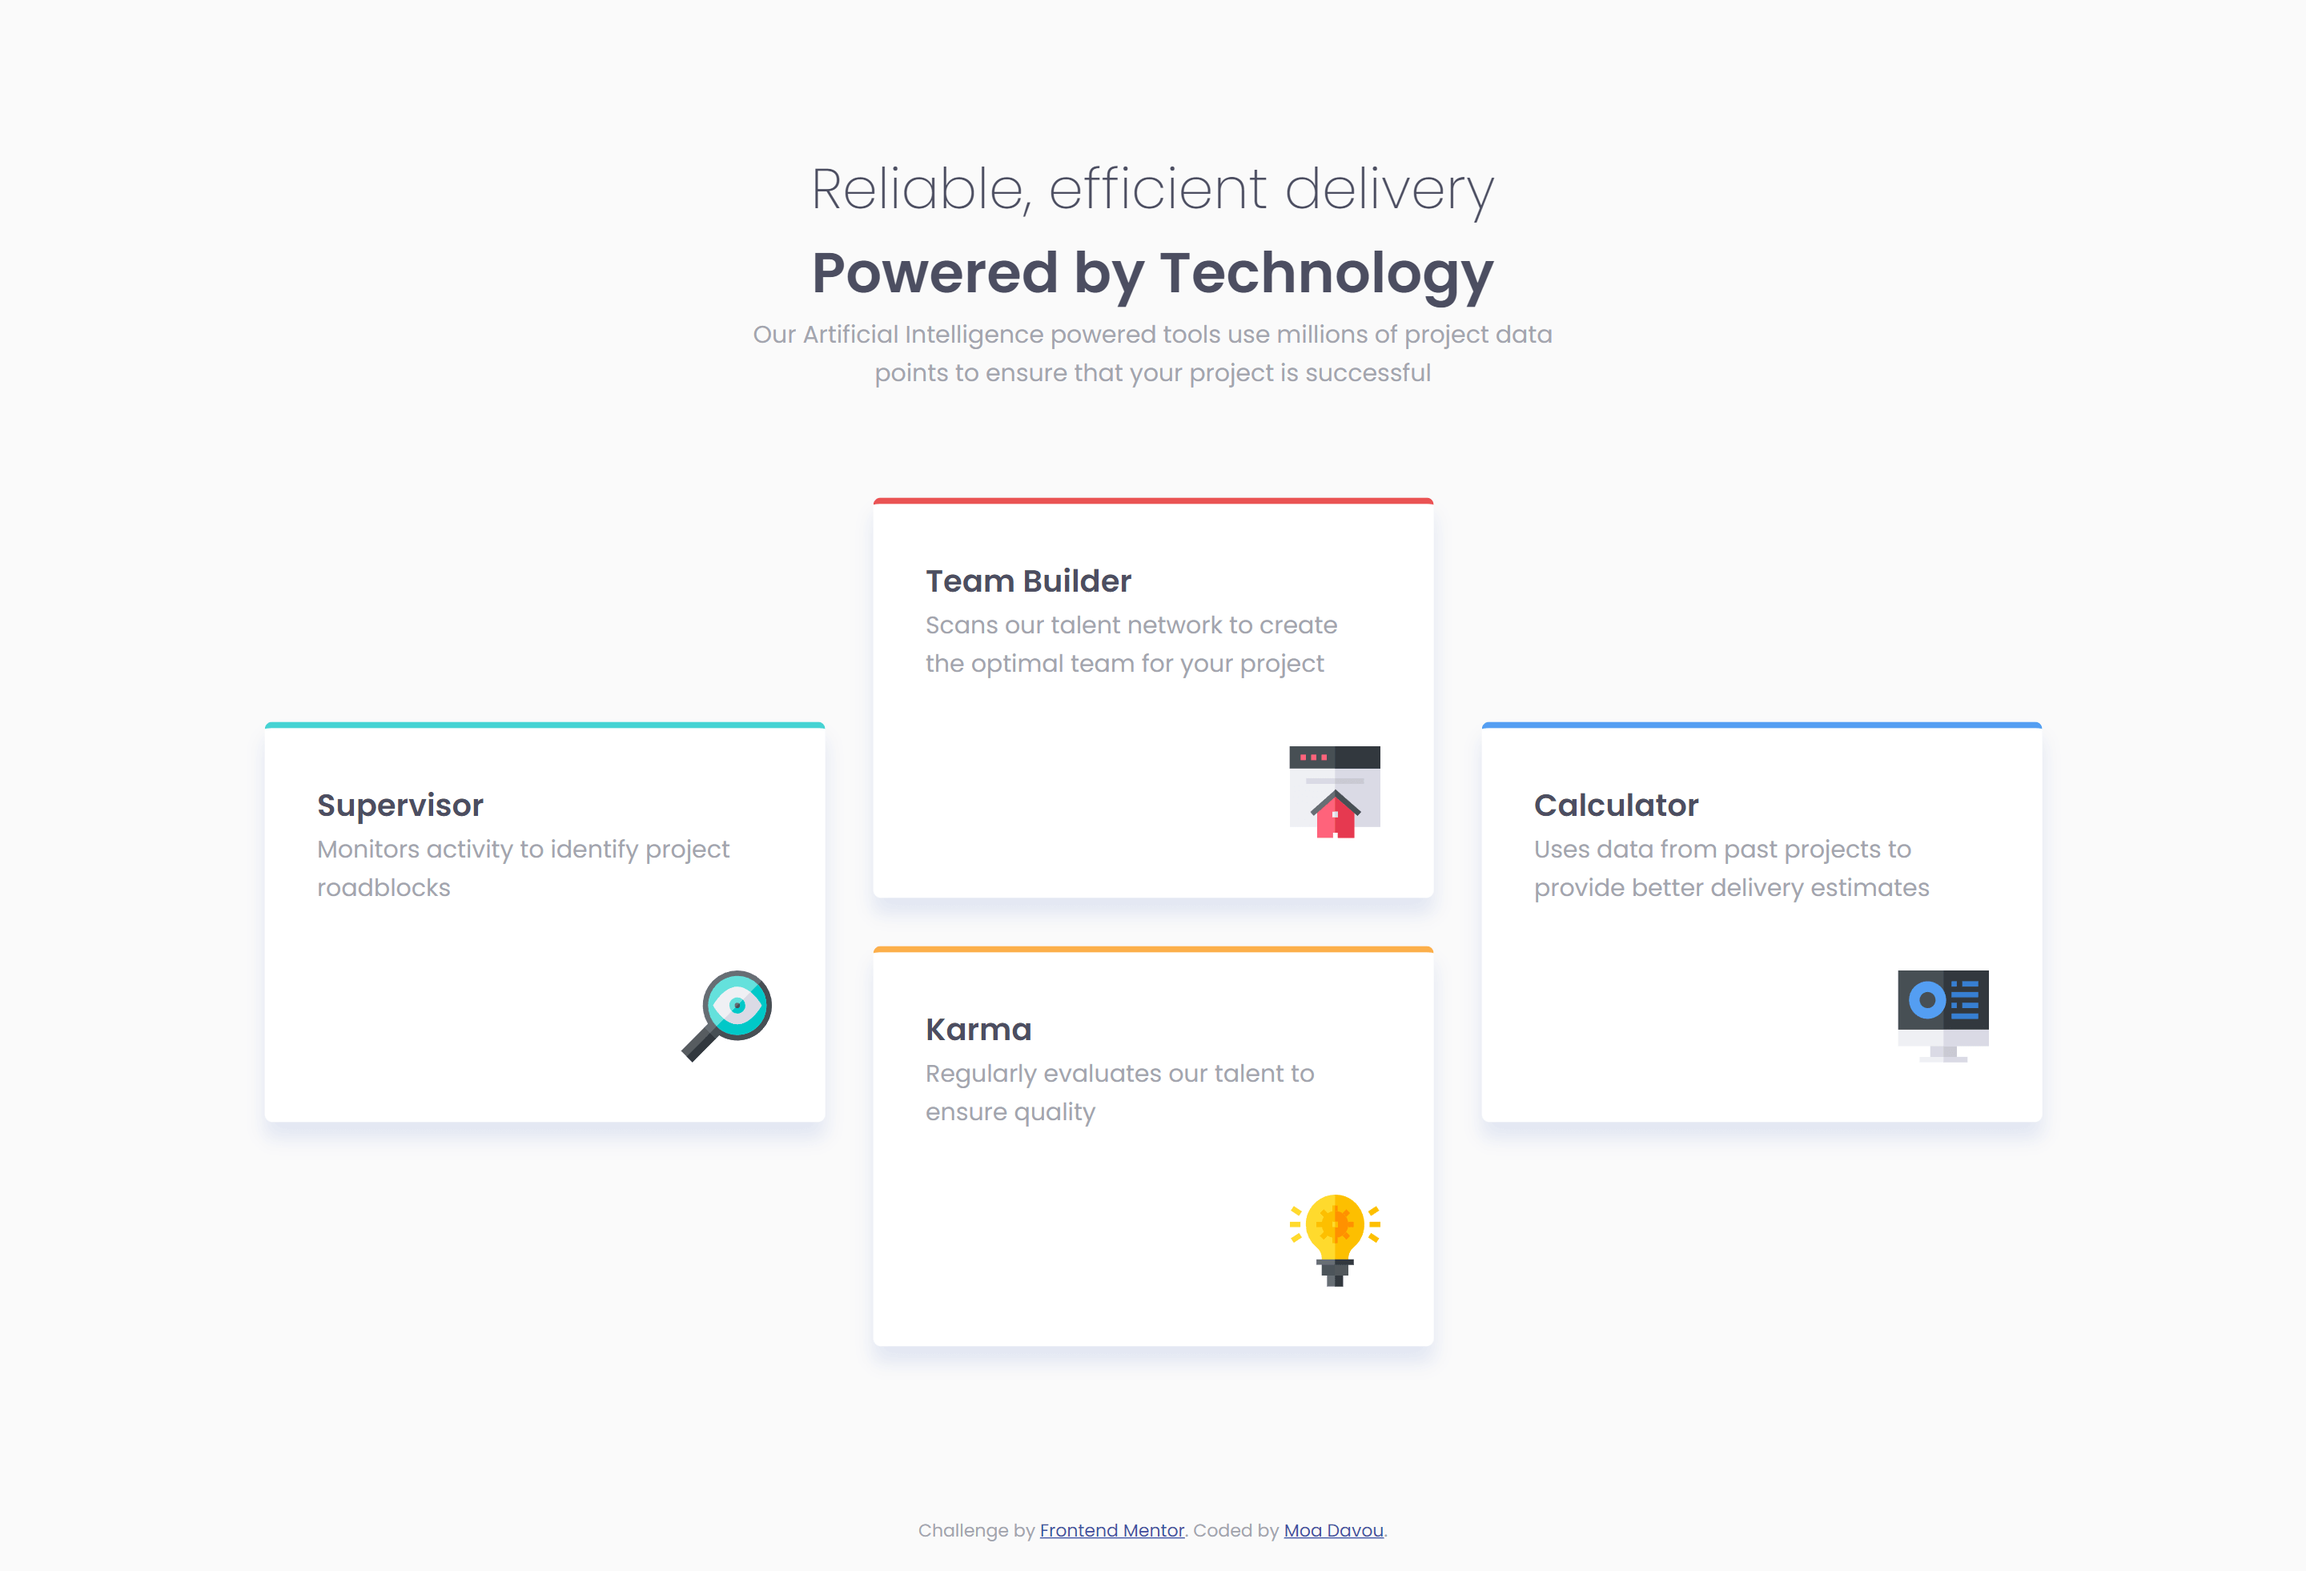
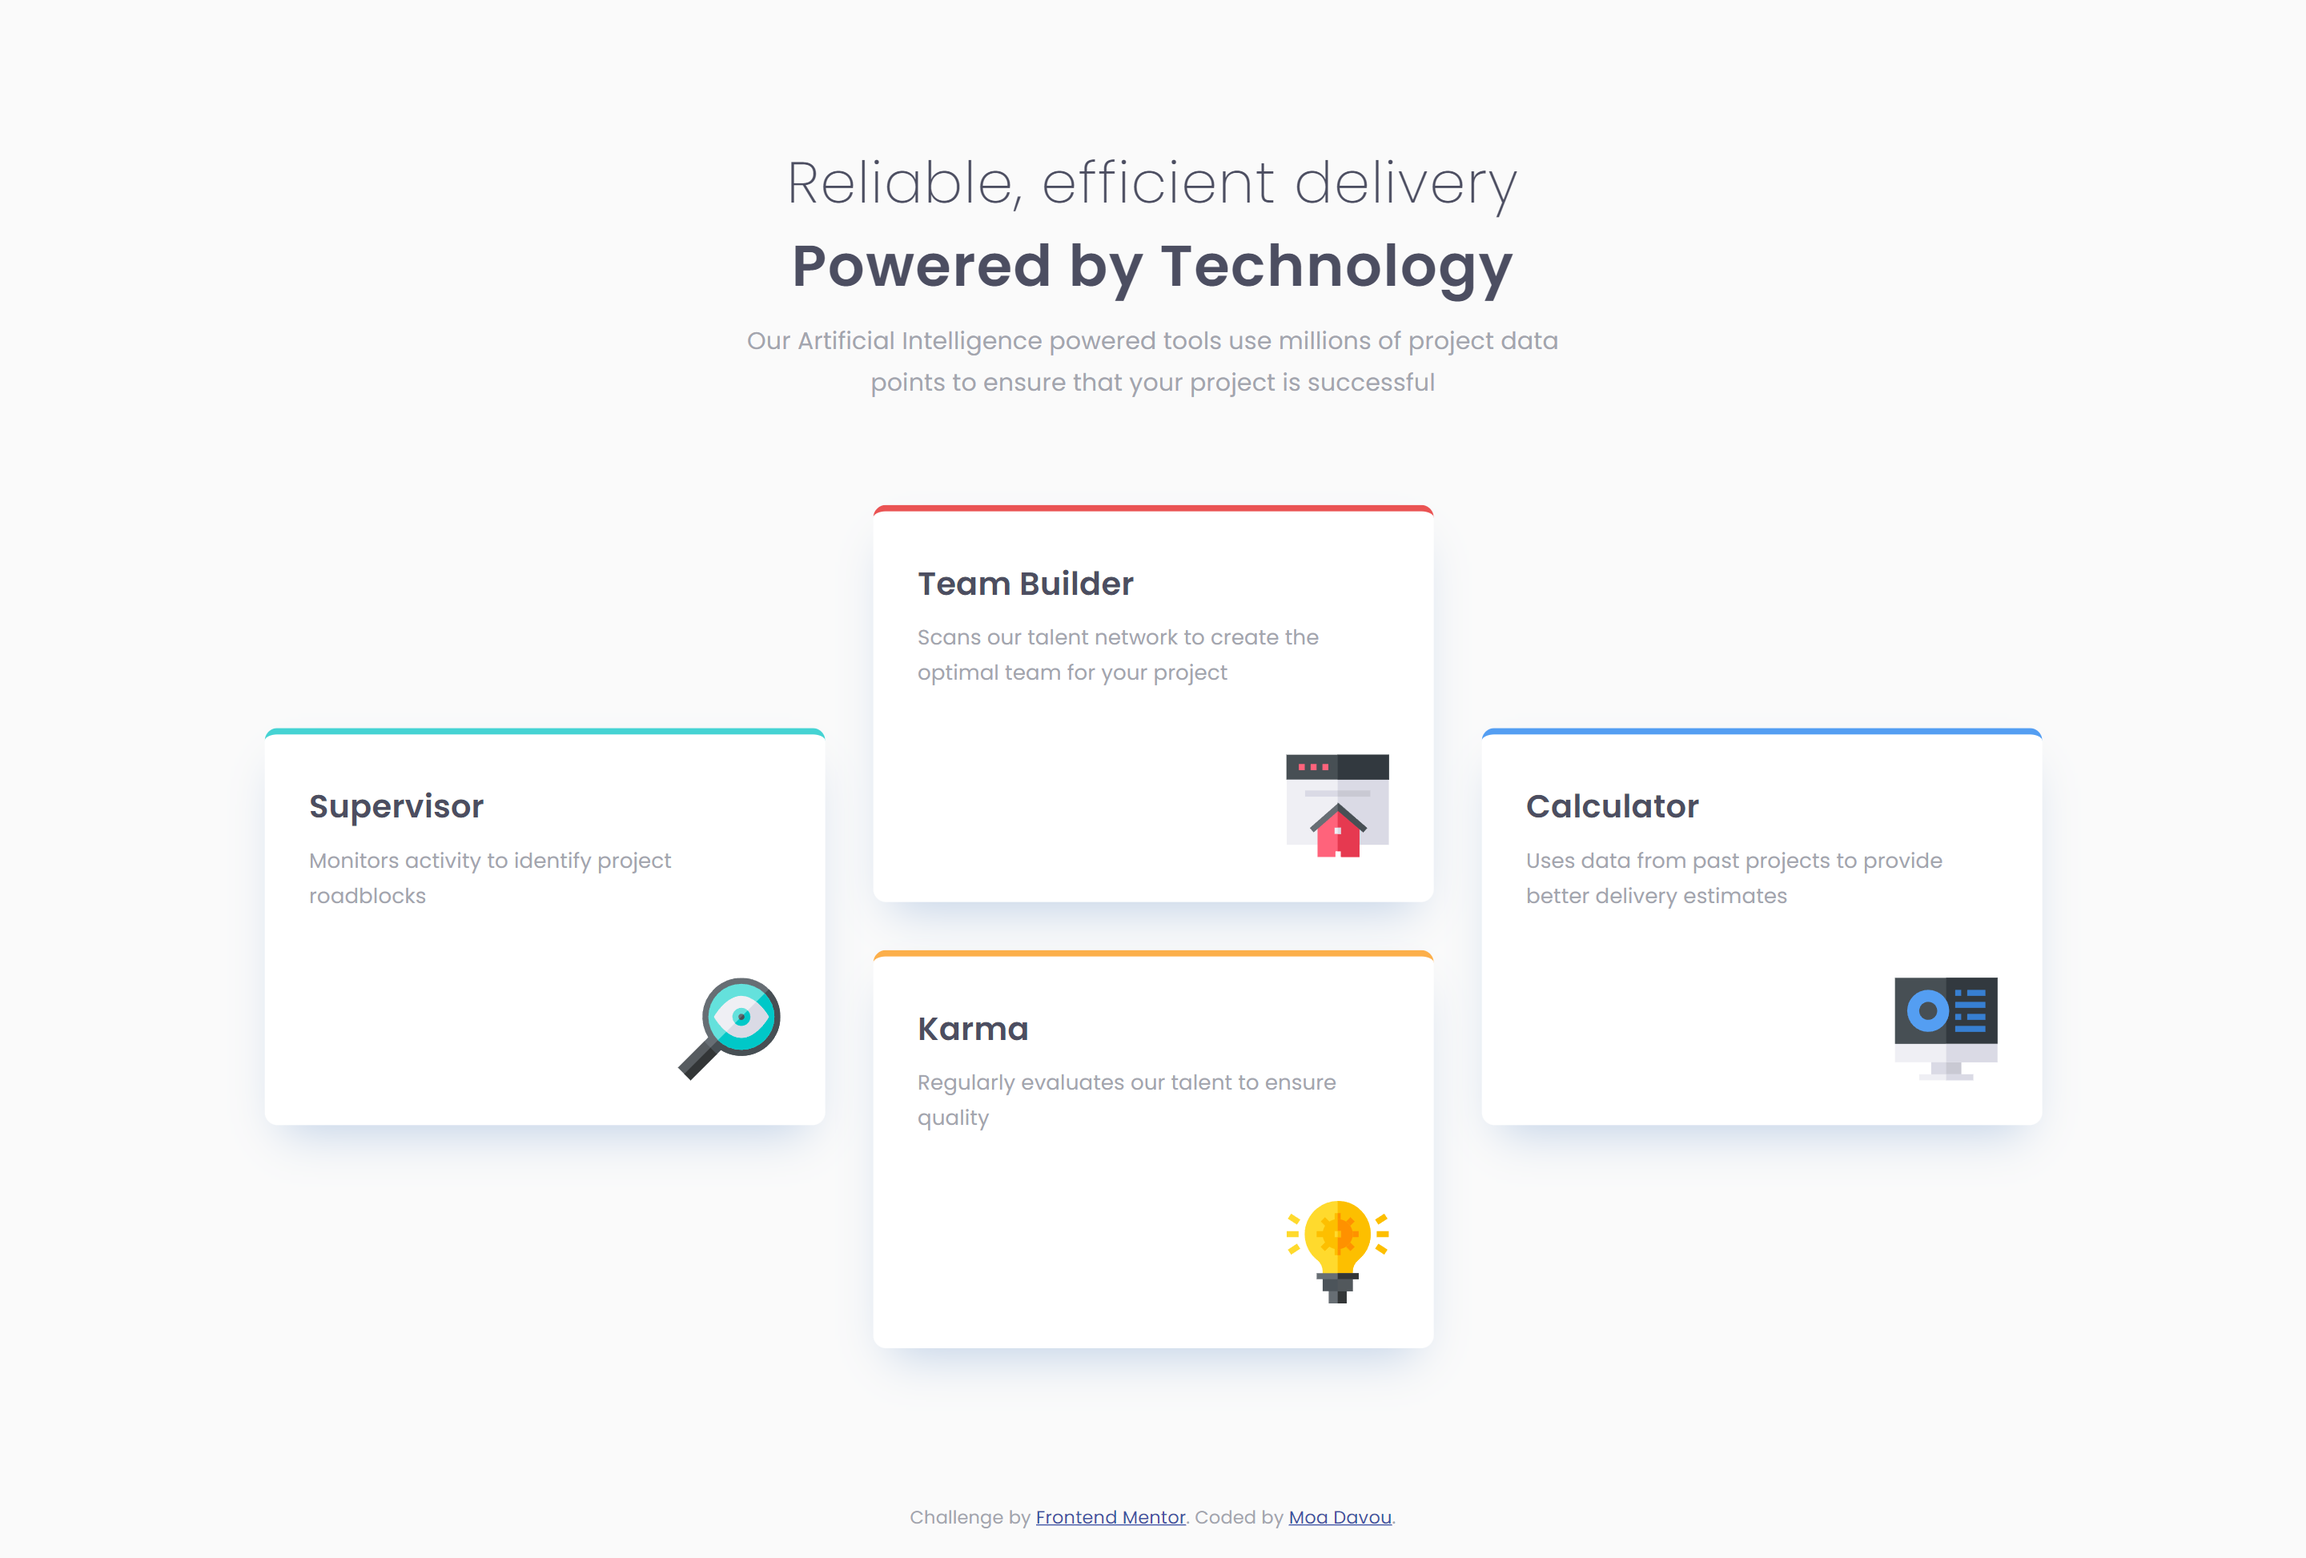
Design and feedback updates
I received feedback and the Figma file for this project and updated the styles accordingly.

diff --git a/index.html b/index.html
@@ -20,42 +20,53 @@
     <title>Frontend Mentor | Four card feature section</title>
   </head>
   <body>
-    <main class="grid flow">
-      <div class="header | text-align-c">
-        <h1 class="text-neutral-900 fs-700 fw-bold">
-          <span class="block fw-light">Reliable, efficient delivery</span
-          >Powered by Technology
-        </h1>
-        <p>
-          Our Artificial Intelligence powered tools use millions of project data
-          points to ensure that your project is successful
-        </p>
-      </div>
-
-      <div class="cards | grid fs-300">
-        <div class="cards__card | bg-neutral-100" data-type="primary-cyan">
-          <h2 class="fs-500 text-neutral-900 fw-bold">Supervisor</h2>
-          <p>Monitors activity to identify project roadblocks</p>
-          <img src="images/icon-supervisor.svg" alt="" class="cards__icon" />
-        </div>
-        <div class="cards__card | bg-neutral-100" data-type="primary-red">
-          <h2 class="fs-500 text-neutral-900 fw-bold">Team Builder</h2>
+    <main class="grid">
+      <div class="container | grid">
+        <div class="header | flow | text-align-c">
+          <h1 class="text-neutral-900 fs-700 fw-bold">
+            <span class="block fw-light">Reliable, efficient delivery</span
+            >Powered by Technology
+          </h1>
           <p>
-            Scans our talent network to create the optimal team for your project
+            Our Artificial Intelligence powered tools use millions of project
+            data points to ensure that your project is successful
           </p>
-          <img src="images/icon-team-builder.svg" alt="" class="cards__icon" />
         </div>
-        <div class="cards__card | bg-neutral-100" data-type="primary-orange">
-          <h2 class="fs-500 text-neutral-900 fw-bold">Karma</h2>
-          <p>Regularly evaluates our talent to ensure quality</p>
-          <img src="images/icon-karma.svg" alt="" class="cards__icon" />
-        </div>
-        <div class="cards__card | bg-neutral-100" data-type="primary-blue">
-          <h2 class="fs-500 text-neutral-900 fw-bold">Calculator</h2>
-          <p>
-            Uses data from past projects to provide better delivery estimates
-          </p>
-          <img src="images/icon-calculator.svg" alt="" class="cards__icon" />
+        <div class="cards | grid fs-300">
+          <article
+            class="cards__card | bg-neutral-100"
+            data-type="primary-cyan">
+            <h2 class="fs-500 text-neutral-900 fw-bold">Supervisor</h2>
+            <p>Monitors activity to identify project roadblocks</p>
+            <img src="images/icon-supervisor.svg" alt="" class="cards__icon" />
+          </article>
+          <article class="cards__card | bg-neutral-100" data-type="primary-red">
+            <h2 class="fs-500 text-neutral-900 fw-bold">Team Builder</h2>
+            <p>
+              Scans our talent network to create the optimal team for your
+              project
+            </p>
+            <img
+              src="images/icon-team-builder.svg"
+              alt=""
+              class="cards__icon" />
+          </article>
+          <article
+            class="cards__card | bg-neutral-100"
+            data-type="primary-orange">
+            <h2 class="fs-500 text-neutral-900 fw-bold">Karma</h2>
+            <p>Regularly evaluates our talent to ensure quality</p>
+            <img src="images/icon-karma.svg" alt="" class="cards__icon" />
+          </article>
+          <article
+            class="cards__card | bg-neutral-100"
+            data-type="primary-blue">
+            <h2 class="fs-500 text-neutral-900 fw-bold">Calculator</h2>
+            <p>
+              Uses data from past projects to provide better delivery estimates
+            </p>
+            <img src="images/icon-calculator.svg" alt="" class="cards__icon" />
+          </article>
         </div>
       </div>
     </main>

diff --git a/style.css b/style.css
@@ -15,10 +15,10 @@
   --fw-regular: 400;
   --fw-bold: 600;
 
-  --fs-300: clamp(0.8rem, 0.5vw + 0.8rem, 0.9375rem);
+  --fs-300: 0.8125rem;
   --fs-400: 0.9375rem;
-  --fs-500: clamp(1rem, 1vw + 1rem, 1.2rem);
-  --fs-700: clamp(1.5rem, 1rem + 2vw, 2.2rem);
+  --fs-500: 1.25rem;
+  --fs-700: clamp(1.5rem, 1rem + 2vw, 2.25rem);
 }
 
 /* CSS reset */
@@ -30,7 +30,6 @@
 
 * {
   margin: 0;
-  padding: 0;
 }
 
 img,
@@ -88,16 +87,18 @@ h6 {
 
 .fs-300 {
   font-size: var(--fs-300);
+  letter-spacing: 0.006em;
 }
 .fs-500 {
   font-size: var(--fs-500);
 }
 .fs-700 {
   font-size: var(--fs-700);
+  letter-spacing: clamp(0.01em, 1rem + 2vw, 0.02em);
 }
 
 :where(.flow > :not(:first-child)) {
-  margin-top: var(--flow-spacer, 1em);
+  margin-top: var(--flow-spacer, 1rem);
 }
 
 .block {
@@ -112,46 +113,57 @@ h6 {
 }
 
 /* General styling */
+
 body {
   font-family: var(--ff-body);
   font-size: var(--fs-400);
   font-weight: var(--fw-regular);
-  line-height: 1.6;
+  line-height: 1.7;
+  letter-spacing: 0.007em;
   color: var(--clr-neutral-500);
   background-color: var(--clr-neutral-200);
 }
 
 h1 {
-  line-height: 1.5;
+  line-height: 1;
+}
+
+h1 span {
+  margin-block: 1rem;
 }
 
 main {
-  padding: 5.6875rem 2rem;
+  min-height: 100vh;
+  place-items: center;
+}
+
+.container {
+  margin: 5.32rem 2rem;
   place-items: center;
 }
 
 .header {
-  max-width: 55ch;
+  max-width: 33.75rem;
 }
 
 /* Cards */
+
 .cards {
-  margin-top: 4.875rem;
-  gap: 1.5em;
+  margin-top: 4.75rem;
+  gap: 1.56rem;
   align-items: center;
 }
 
 .cards__card {
-  border-radius: 0.3rem;
-  padding: 1.875rem;
-  box-shadow: 0px 10px 12px hsla(223, 40%, 90%, 0.8);
+  border-radius: 8px;
+  padding: 1.75rem;
+  box-shadow: 0px 15px 30px -11px hsla(213, 47%, 67%, 0.5);
   max-width: 21.875rem;
-  min-height: 15.625rem;
   border-top: 4px solid var(--border-top);
 }
 
 .cards__icon {
-  margin: 2.5rem 0 0 auto;
+  margin: 2rem 0 0 auto;
   width: 57px;
 }
 
@@ -169,30 +181,45 @@ main {
 }
 
 @media (min-width: 40em) {
+  .container {
+    margin-block: 5rem;
+  }
+
   .cards {
-    margin-top: 4.125rem;
-    grid-template-columns: repeat(3, 1fr);
+    margin-top: 4rem;
+    grid-template-rows: repeat(4, 1fr);
     gap: 1.875rem;
   }
-  .cards__card {
-    padding: 2.06rem;
+
+  .cards__icon {
+    margin: 2.5rem 0 0 auto;
+    width: 64px;
+  }
+
+  .cards__card h2 {
+    margin-bottom: 0.375rem;
+  }
+
+  .cards__card[data-type="primary-red"] {
+    grid-row: 1 / span 2;
   }
 
   .cards__card[data-type="primary-orange"] {
-    grid-column: 2;
+    grid-row: 3 / span 2;
   }
+
   .cards__card[data-type="primary-cyan"] {
-    grid-row: 1 / span 2;
+    grid-row: 2 / span 2;
   }
+
   .cards__card[data-type="primary-blue"] {
-    grid-column: 3;
-    grid-row: 1 / span 2;
+    grid-row: 2 / span 2;
   }
 }
 
 /* Attribution */
 .attribution {
-  font-size: 11px;
+  font-size: 0.7rem;
   text-align: center;
   margin: 1rem;
 }

diff --git a/README.md b/README.md
@@ -11,6 +11,7 @@ This is a solution to the [Four card feature section challenge on Frontend Mento
 - [My process](#my-process)
   - [Built with](#built-with)
   - [What I learned](#what-i-learned)
+  - [Feedback](#feedback)
   - [Continued development](#continued-development)
 - [Author](#author)
 
@@ -36,19 +37,57 @@ Users should be able to:
 ### Built with
 
 - Semantic HTML5 markup
-- CSS custom properties
-- CSS utility classes
-- Flexbox
+- CUBE CSS
 - CSS Grid
 - Mobile-first workflow
 
 ### What I learned
 
-This project was a lot of practicing what I already knew (which is always a good experience). But, as always, I did learn something new.
+This project involved a lot of practicing what I already knew, which is always a valuable experience. However, I did manage to learn something new.
 
-- I got some more practice with `grid`. Compared to `flexbox` I'm not confident with this one. I had some issues with the layout since I completely forgot that `place-items: center;` exists. Got there in the end!
+- I practiced using `grid` more. I'm less confident with it compared to `flexbox`. I had some layout issues because I forgot about `place-items: center;`. Managed to figure it out in the end!
 
 - I also learned how to use the `data-*` attribute to write shorter and cleaner CSS.
+
+### Feedback
+
+After completing the challenge, I received valuable feedback and had discussions with other Frontend Mentor users about semantic HTML.
+
+**The updates I made to the challenge after receiving feedback:**
+
+- I updated the cards to use the `<article>` element instead of the `<div>` element since they can be used as standalone content.
+- I updated the grid to 4 rows and 3 columns. This change ensures that the cards will have consistent lengths, regardless of the content inside them.
+- I added a `min-height: 100vh` on larger devices to ensure that the content is centered on the page.
+
+**My conclusion from our discussions:**
+
+**Using `<h1>` inside `<header>`**
+
+Even though multiple websites state that `<header>` can contain `<h1>` (it's not a compliance failure under WCAG accessibility requirements), they shouldn't.
+
+- `<header>` is a _banner_ role landmark, which is designed to hold repeating content across a site.
+- If a banner `<header>` with a `<h1>` is on every page, the `<h1>` no longer acts as a page heading due to it being perceived as repeated content. This is bad for SEO.
+- It can cause misordering of heading elements which is confusing for screen readers and goes against WCGA best recommendations.
+
+Another thing to note is that having multiple `<header>` elements on a page should be avoided. This makes some screen reader users hear multiple _banner_ landmarks.
+
+**Text inside `<span>` or `<div>`**
+
+`<div>` and `<span>` have no semantic value. If semantic elements are used to give them semantic value, text can be used inside them. For example:
+
+`<p><span>I'm a span</span>I'm not a span</p>`
+
+Avoid standalone `<div>` and `<span>`. For example, this is considered bad (due to no semantic value):
+
+`<span>I'm a span</span>`
+
+**Make sure to use the most meaningful elements for the content.**
+
+- If you need bold text, use `<strong>` or `<bold>`
+- If you need italics, use `<em>` or `<i>`
+- If you need strikethrough, use `<del>` or `<s>`
+
+Only use `<span>` if there are **no meaningful elements you can use**.
 
 ### Continued development
 
